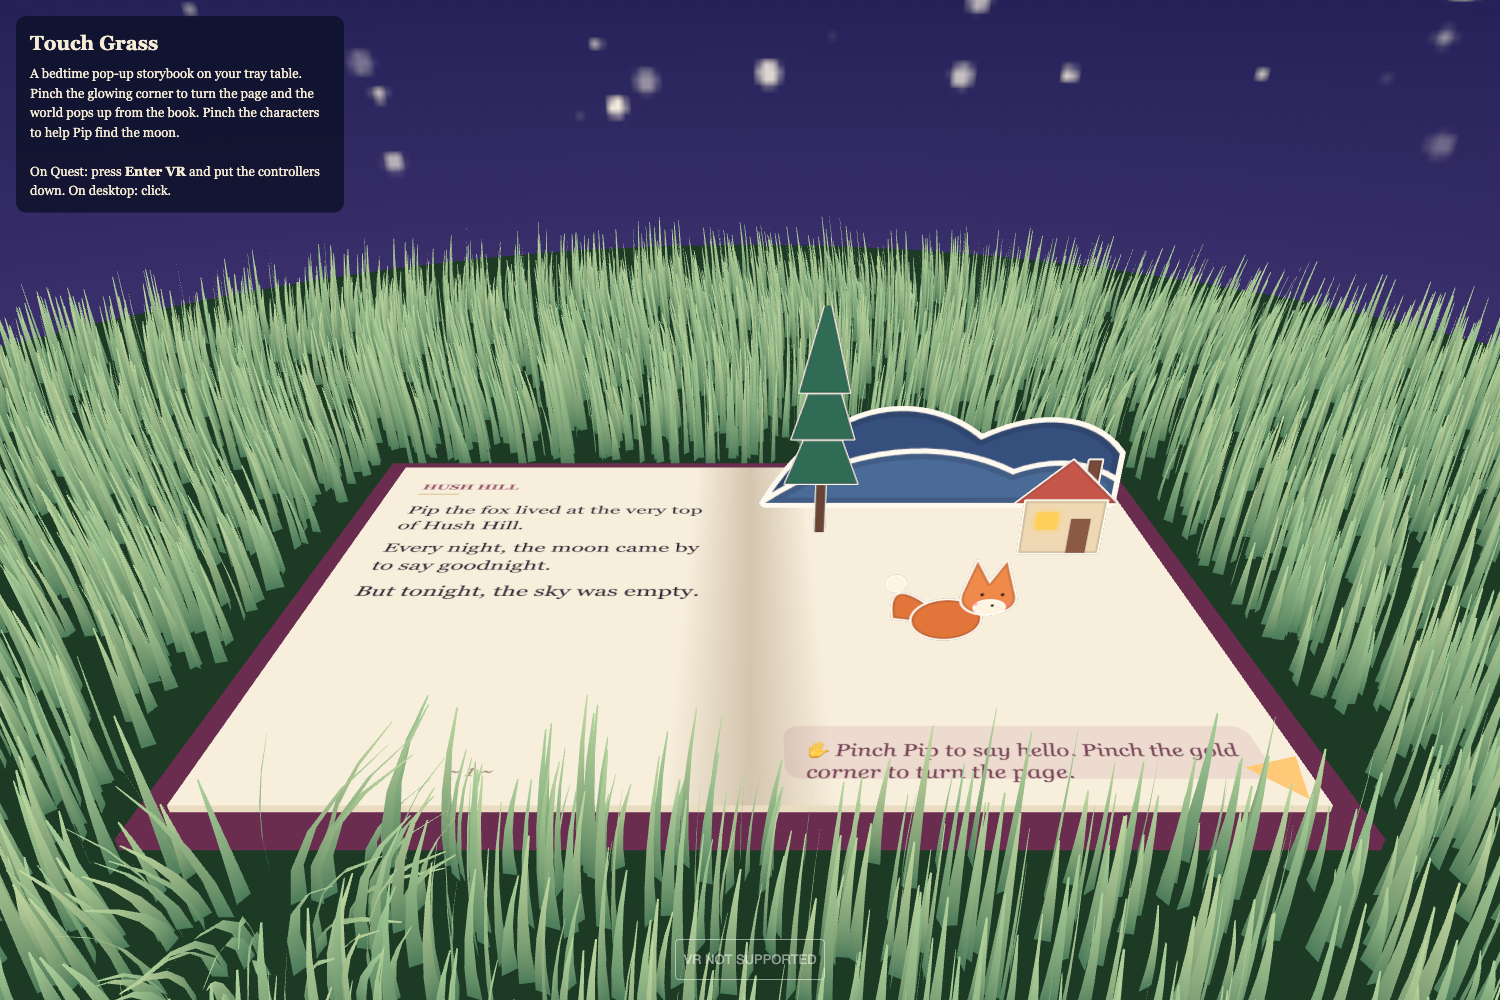
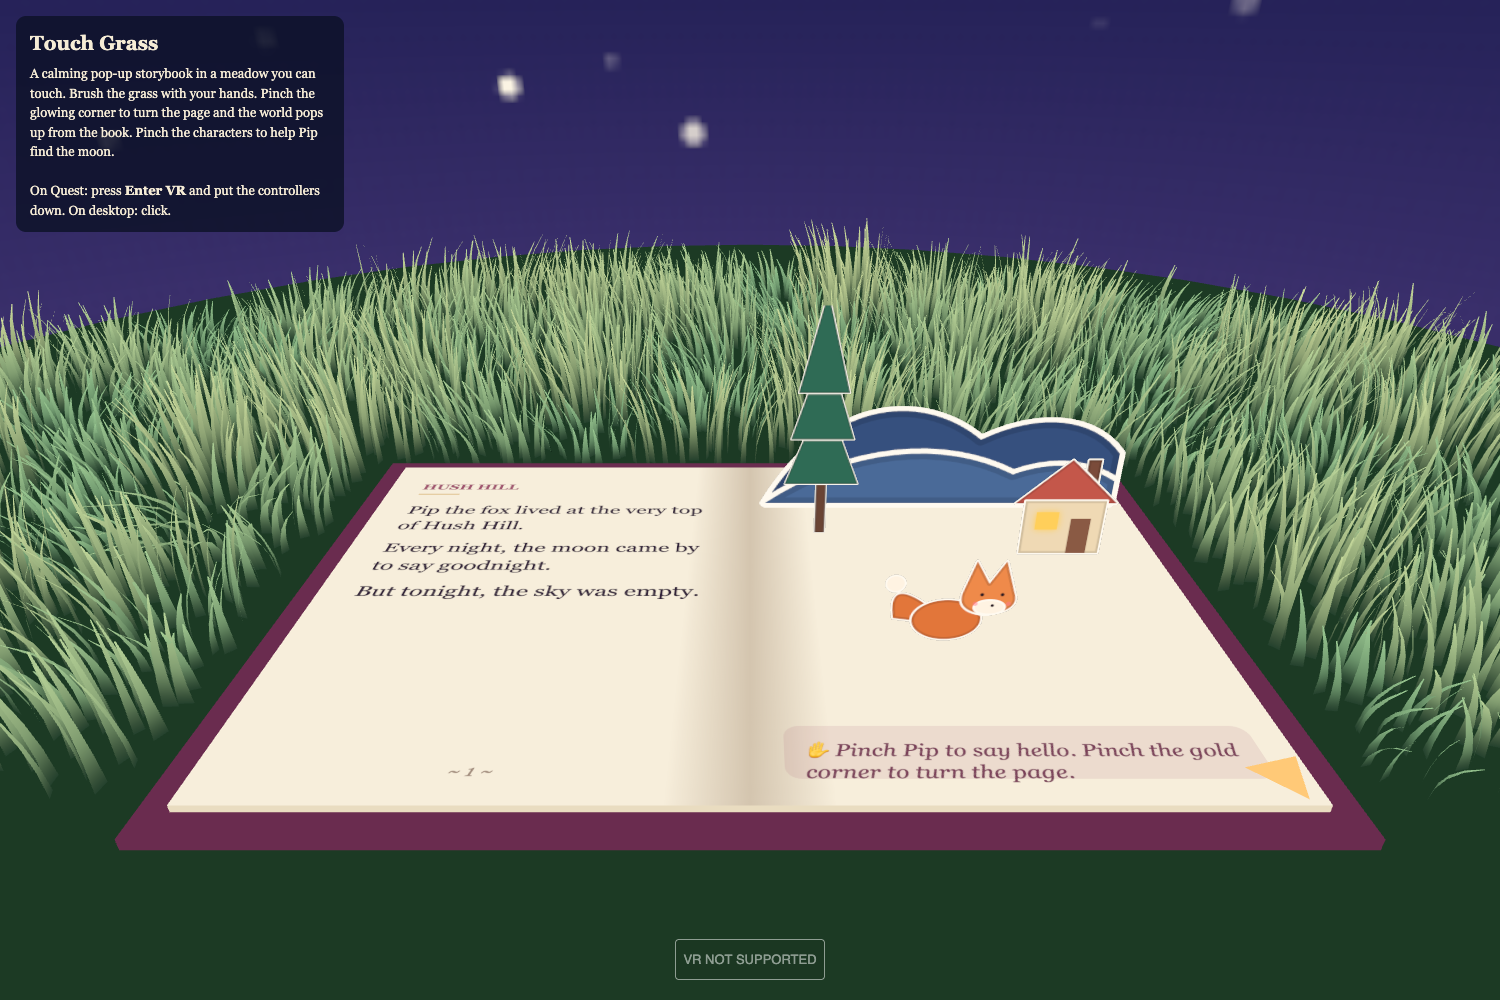
Grass: jittered grid, Voronoi clumps, curved blades, base AO (technique inspired by Ghost of Tsushima notes)

diff --git a/main.js b/main.js
@@ -48,7 +48,7 @@ const grassU = { uTime: { value: 0 }, uH0: { value: new THREE.Vector3(9, 9, 9) }
   const mat = new THREE.ShaderMaterial({
     uniforms: grassU, side: THREE.DoubleSide,
     vertexShader: `
-      uniform float uTime; uniform vec3 uH0, uH1, uH2; varying float vH; varying float vShade;
+      uniform float uTime; uniform vec3 uH0, uH1, uH2; attribute float aTint; attribute float aBend; varying float vH; varying float vShade;
       vec2 push(vec3 h, vec3 root, float k) {
         vec2 d = root.xz - h.xz; float dist = length(d) + 1e-4;
         float near = (1.0 - smoothstep(0.0, 0.07, dist)) * (1.0 - smoothstep(0.0, 0.08, abs(h.y - root.y - 0.02)));
@@ -57,6 +57,7 @@ const grassU = { uTime: { value: 0 }, uH0: { value: new THREE.Vector3(9, 9, 9) }
       void main() {
         vH = uv.y;
         vec3 p = position; p.x *= (1.0 - uv.y * 0.9);
+        p.z += aBend * uv.y * uv.y * 0.018; p.y -= aBend * uv.y * uv.y * 0.006;   // curved blade
         vec4 root = instanceMatrix * vec4(0.0, 0.0, 0.0, 1.0);
         vec4 w = instanceMatrix * vec4(p, 1.0);
         float k = uv.y * uv.y;
@@ -64,29 +65,49 @@ const grassU = { uTime: { value: 0 }, uH0: { value: new THREE.Vector3(9, 9, 9) }
         w.z += cos(uTime * 1.1 + root.x * 6.0) * 0.004 * k;
         vec2 b = push(uH0, root.xyz, 0.035) + push(uH1, root.xyz, 0.035) + push(uH2, root.xyz, 0.035);
         w.xz += b * k; w.y -= length(b) * k * 0.6;
-        vShade = fract(sin(dot(root.xz, vec2(12.9898, 78.233))) * 43758.5453);
+        vShade = aTint;
         gl_Position = projectionMatrix * viewMatrix * w;
       }`,
     fragmentShader: `
       varying float vH; varying float vShade;
       void main() {
-        vec3 base = vec3(0.07, 0.2, 0.1), tip = mix(vec3(0.38, 0.62, 0.32), vec3(0.55, 0.7, 0.36), vShade);
-        gl_FragColor = vec4(mix(base, tip, vH), 1.0);
+        vec3 base = vec3(0.04, 0.12, 0.06), tip = mix(vec3(0.3, 0.56, 0.28), vec3(0.62, 0.72, 0.34), vShade);
+        float ao = smoothstep(0.0, 0.45, vH);
+        gl_FragColor = vec4(mix(base, tip, vH) * (0.45 + 0.55 * ao), 1.0);
         #include <colorspace_fragment>
       }`,
   });
-  const N = 9000, grass = new THREE.InstancedMesh(blade, mat, N);
-  const m4 = new THREE.Matrix4(), q = new THREE.Quaternion(), s = new THREE.Vector3(), pos = new THREE.Vector3();
-  let n = 0;
-  while (n < N) {
-    const r = Math.sqrt(Math.random()) * 0.65, a = Math.random() * Math.PI * 2;
-    const x = Math.cos(a) * r, z = -0.45 + Math.sin(a) * r * 0.8;
+  // Placement inspired by the Ghost of Tsushima approach (jittered grid + Voronoi clumps), written from scratch here
+  const hash = (x, z) => { const h = Math.sin(x * 127.1 + z * 311.7) * 43758.5453; return h - Math.floor(h); };
+  const CLUMP = 0.07, clumpAt = (x, z) => {
+    const cx = Math.floor(x / CLUMP), cz = Math.floor(z / CLUMP); let best = null, bd = 1e9;
+    for (let dz = -1; dz <= 1; dz++) for (let dx = -1; dx <= 1; dx++) {
+      const gx = cx + dx, gz = cz + dz, px = (gx + hash(gx, gz)) * CLUMP, pz = (gz + hash(gz, gx + 7)) * CLUMP;
+      const d = (px - x) ** 2 + (pz - z) ** 2; if (d < bd) { bd = d; best = { px, pz, id: hash(gx * 3, gz * 5) }; }
+    }
+    return best;
+  };
+  const CELL = 0.0105, blades = [];
+  for (let gx = -62; gx <= 62; gx++) for (let gz = -62; gz <= 62; gz++) {
+    const x = (gx + hash(gx, gz)) * CELL, z = -0.45 + (gz + hash(gz + 3, gx)) * CELL;
+    const rx = x / 0.65, rz = (z + 0.45) / 0.52; if (rx * rx + rz * rz > 1) continue;
     if (Math.abs(x) < 0.225 && Math.abs(z + 0.45) < 0.145) continue;   // keep the book clear
     if (Math.abs(x) < 0.3 && z > -0.33) continue;                          // keep your lap clear so the page stays visible
-    pos.set(x, GRASS_Y, z); q.setFromAxisAngle(new THREE.Vector3(0, 1, 0), Math.random() * Math.PI);
-    const h = 0.6 + Math.random() * 0.8; s.set(1, h, 1);
-    grass.setMatrixAt(n++, m4.compose(pos, q, s));
+    blades.push([x, z]);
   }
+  const N = blades.length, grass = new THREE.InstancedMesh(blade, mat, N);
+  const tint = new Float32Array(N), bend = new Float32Array(N);
+  const m4 = new THREE.Matrix4(), q = new THREE.Quaternion(), s = new THREE.Vector3(), pos = new THREE.Vector3(), up = new THREE.Vector3(0, 1, 0);
+  blades.forEach(([x, z], n) => {
+    const c = clumpAt(x, z);
+    const face = Math.atan2(x - c.px, z - c.pz) + (hash(x * 91, z * 37) - 0.5) * 1.2;   // clump blades lean outward together
+    pos.set(x, GRASS_Y, z); q.setFromAxisAngle(up, face);
+    s.set(0.8 + hash(z, x) * 0.5, (0.55 + c.id * 0.7) * (0.8 + hash(x * 13, z) * 0.4), 1);
+    grass.setMatrixAt(n, m4.compose(pos, q, s));
+    tint[n] = c.id; bend[n] = 0.3 + hash(x * 7, z * 11) * 0.7;
+  });
+  blade.setAttribute('aTint', new THREE.InstancedBufferAttribute(tint, 1));
+  blade.setAttribute('aBend', new THREE.InstancedBufferAttribute(bend, 1));
   grass.frustumCulled = false; scene.add(grass);
 }
 
